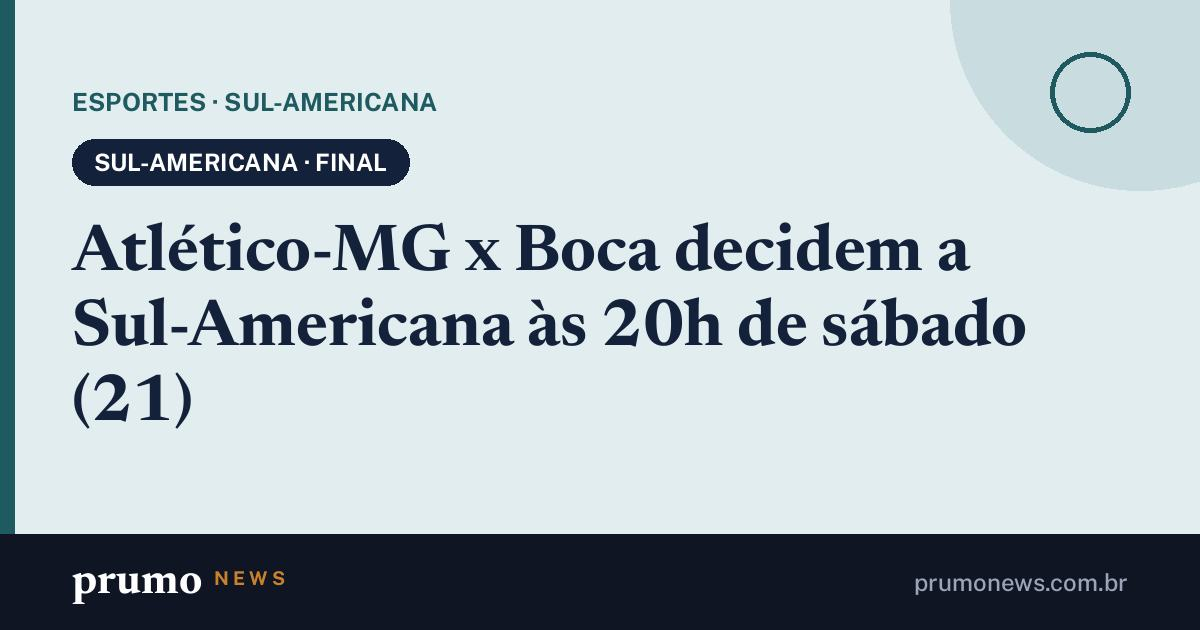
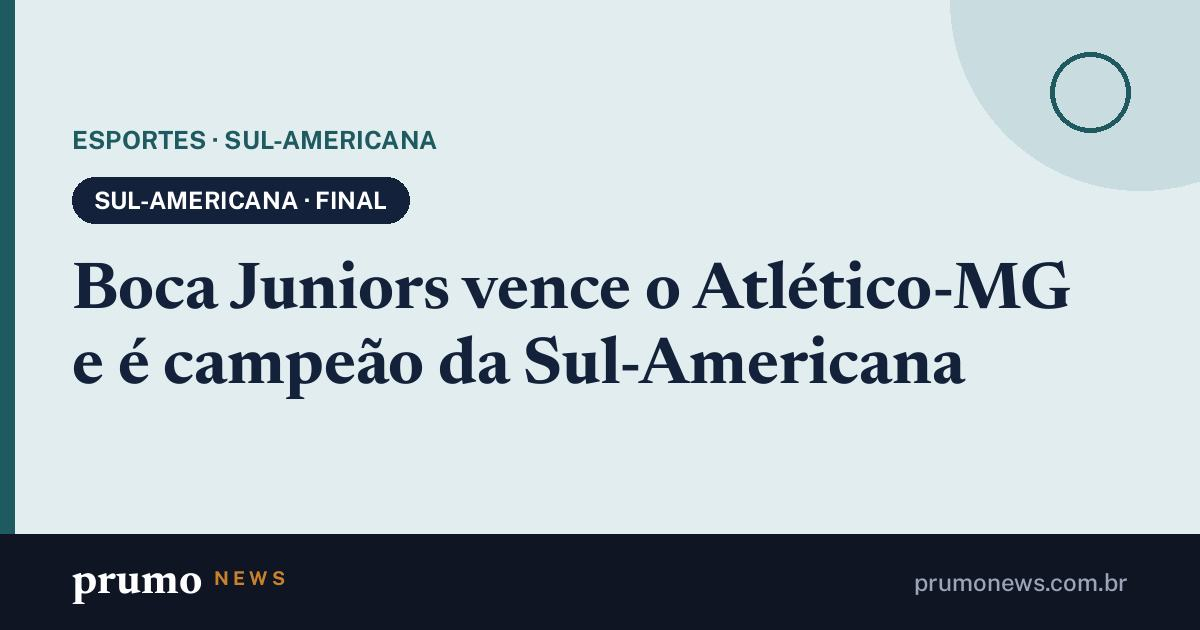
Páginas de compartilhamento 21/11 21h49

Changed region(s): [[0.0617, 0.1206, 0.8942, 0.6937]]

diff --git a/m/atletico-mg-city-torque-semi-sulamericana.html b/m/atletico-mg-city-torque-semi-sulamericana.html
@@ -3,16 +3,16 @@
 <head>
 <meta charset="utf-8">
 <meta name="viewport" content="width=device-width, initial-scale=1">
-<title>Atlético-MG x Boca decidem a Sul-Americana às 20h de sábado (21) · Prumo News</title>
-<meta name="description" content="Final em jogo único, às 20h de sábado (21), em Barranquilla; o Galo só venceu o Boca uma vez na história.">
-<link rel="canonical" href="https://prumonews.com.br/m/atletico-mg-x-boca-decidem-a-sul-americana-as-20h-de-sabado-21.html">
+<title>Boca Juniors vence o Atlético-MG e é campeão da Sul-Americana · Prumo News</title>
+<meta name="description" content="O Galo perdeu a final em jogo único, em Barranquilla, e ficou com o vice; o Boca se tornou o maior campeão da história do torneio.">
+<link rel="canonical" href="https://prumonews.com.br/m/boca-juniors-vence-o-atletico-mg-e-e-campeao-da-sul-americana.html">
 <meta property="og:type" content="article">
 <meta property="og:site_name" content="Prumo News">
 <meta property="og:locale" content="pt_BR">
-<meta property="og:title" content="Atlético-MG x Boca decidem a Sul-Americana às 20h de sábado (21)">
-<meta property="og:description" content="Final em jogo único, às 20h de sábado (21), em Barranquilla; o Galo só venceu o Boca uma vez na história.">
-<meta property="og:url" content="https://prumonews.com.br/m/atletico-mg-x-boca-decidem-a-sul-americana-as-20h-de-sabado-21.html">
-<meta property="og:image" content="https://prumonews.com.br/m/og/atletico-mg-city-torque-semi-sulamericana.jpg?v=fc491054e5">
+<meta property="og:title" content="Boca Juniors vence o Atlético-MG e é campeão da Sul-Americana">
+<meta property="og:description" content="O Galo perdeu a final em jogo único, em Barranquilla, e ficou com o vice; o Boca se tornou o maior campeão da história do torneio.">
+<meta property="og:url" content="https://prumonews.com.br/m/boca-juniors-vence-o-atletico-mg-e-e-campeao-da-sul-americana.html">
+<meta property="og:image" content="https://prumonews.com.br/m/og/atletico-mg-city-torque-semi-sulamericana.jpg?v=ed296bb587">
 <meta property="og:image:width" content="1200">
 <meta property="og:image:height" content="630">
 <meta name="twitter:card" content="summary_large_image">
@@ -20,5 +20,5 @@
 <script>location.replace("/#m=atletico-mg-city-torque-semi-sulamericana")</script>
 <style>body{margin:0;font:16px/1.5 system-ui,sans-serif;background:#0f1522;color:#e8ecf2;display:grid;place-items:center;min-height:100vh;padding:24px;box-sizing:border-box;text-align:center}a{color:#e6b673}</style>
 </head>
-<body><p><a href="/#m=atletico-mg-city-torque-semi-sulamericana">Atlético-MG x Boca decidem a Sul-Americana às 20h de sábado (21)</a><br>Abrindo no Prumo News…</p></body>
+<body><p><a href="/#m=atletico-mg-city-torque-semi-sulamericana">Boca Juniors vence o Atlético-MG e é campeão da Sul-Americana</a><br>Abrindo no Prumo News…</p></body>
 </html>

diff --git a/m/boca-juniors-vence-o-atletico-mg-e-e-campeao-da-sul-americana.html b/m/boca-juniors-vence-o-atletico-mg-e-e-campeao-da-sul-americana.html
@@ -1,0 +1,24 @@
+<!doctype html>
+<html lang="pt-BR">
+<head>
+<meta charset="utf-8">
+<meta name="viewport" content="width=device-width, initial-scale=1">
+<title>Boca Juniors vence o Atlético-MG e é campeão da Sul-Americana · Prumo News</title>
+<meta name="description" content="O Galo perdeu a final em jogo único, em Barranquilla, e ficou com o vice; o Boca se tornou o maior campeão da história do torneio.">
+<link rel="canonical" href="https://prumonews.com.br/m/boca-juniors-vence-o-atletico-mg-e-e-campeao-da-sul-americana.html">
+<meta property="og:type" content="article">
+<meta property="og:site_name" content="Prumo News">
+<meta property="og:locale" content="pt_BR">
+<meta property="og:title" content="Boca Juniors vence o Atlético-MG e é campeão da Sul-Americana">
+<meta property="og:description" content="O Galo perdeu a final em jogo único, em Barranquilla, e ficou com o vice; o Boca se tornou o maior campeão da história do torneio.">
+<meta property="og:url" content="https://prumonews.com.br/m/boca-juniors-vence-o-atletico-mg-e-e-campeao-da-sul-americana.html">
+<meta property="og:image" content="https://prumonews.com.br/m/og/atletico-mg-city-torque-semi-sulamericana.jpg?v=ed296bb587">
+<meta property="og:image:width" content="1200">
+<meta property="og:image:height" content="630">
+<meta name="twitter:card" content="summary_large_image">
+<meta name="theme-color" content="#0f1522">
+<script>location.replace("/#m=atletico-mg-city-torque-semi-sulamericana")</script>
+<style>body{margin:0;font:16px/1.5 system-ui,sans-serif;background:#0f1522;color:#e8ecf2;display:grid;place-items:center;min-height:100vh;padding:24px;box-sizing:border-box;text-align:center}a{color:#e6b673}</style>
+</head>
+<body><p><a href="/#m=atletico-mg-city-torque-semi-sulamericana">Boca Juniors vence o Atlético-MG e é campeão da Sul-Americana</a><br>Abrindo no Prumo News…</p></body>
+</html>
